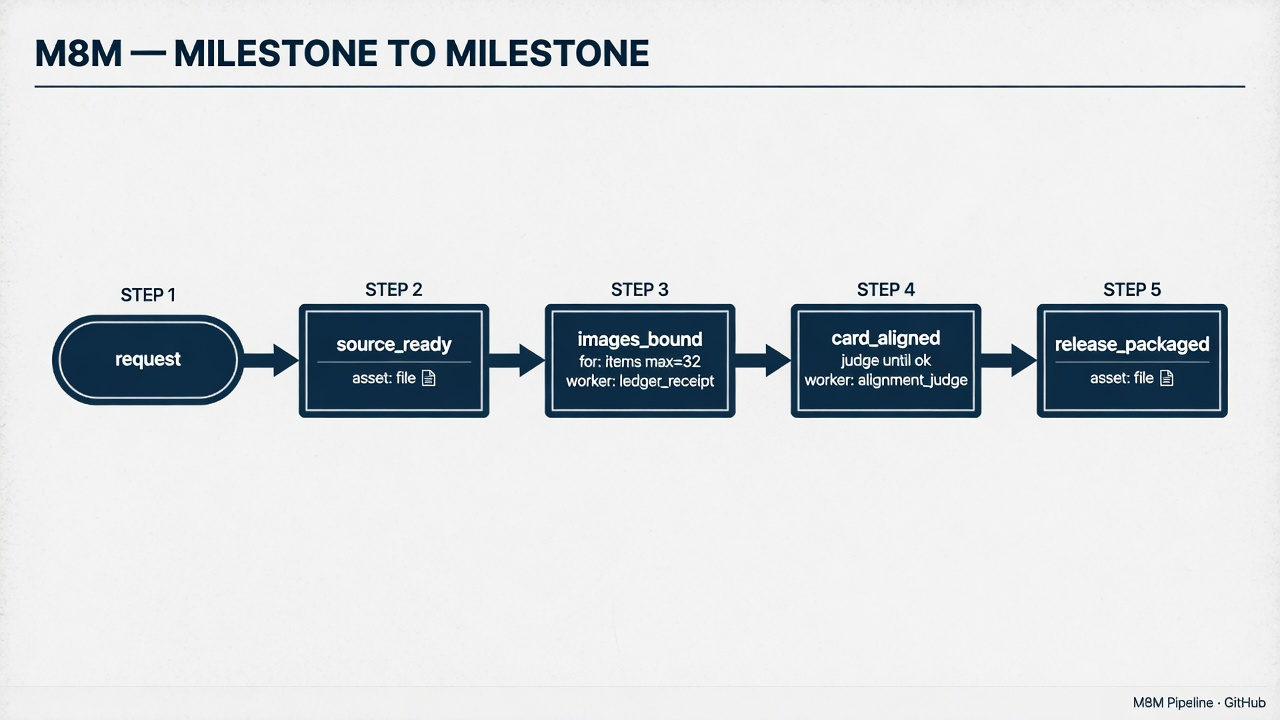
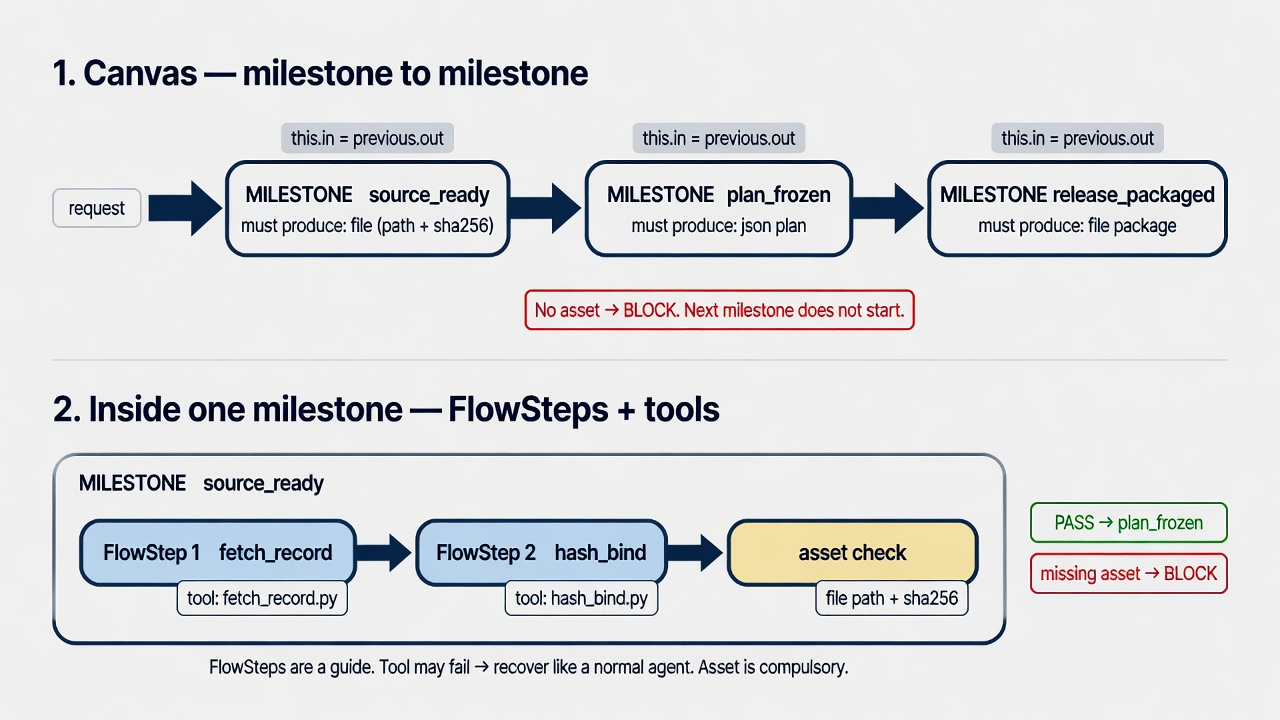
Redraw the demo: canvas is milestones; inside one milestone are FlowSteps with tools.
README and the article sample JPEG now show two panels: milestone-to-milestone
with required assets, then several FlowSteps (each with a preferred tool)
inside one milestone, then the asset check that lets the run proceed.

diff --git a/examples/article_infographic/planning/m8m-flowchart.md b/examples/article_infographic/planning/m8m-flowchart.md
@@ -1,9 +1,9 @@
 # M8M flowchart: article-infographic-maker
 
-One chart. Milestone to milestone. Each node is a required asset
-(file, image, json proof, or data). Missing it is BLOCKED.
-FlowSteps inside a node are a guide (one preferred tool each), not a compulsory path.
-for = ledger milestone until remaining=0. judge (if) = retry until worker ok.
+Two pictures. Top: milestone to milestone. Each node must hand over an
+asset or the next node does not start. Bottom: open one milestone
+(`cards_rendered`) — several FlowSteps, each with one preferred tool,
+then the image asset check.
 
 - flow_id: `article_infographic_zh_hant_v2`
 - source: `audit`
@@ -11,7 +11,7 @@ for = ledger milestone until remaining=0. judge (if) = retry until worker ok.
 
 ## Chart
 
-![article infographic M8M chart: linear milestones, for-ledger on pages, judge-until-ok on cards](m8m-flowchart.jpg)
+![article infographic: canvas of milestones, then inside cards_rendered the FlowSteps render_html_shell, footer_geometry_qa, hash_bind and the image asset check](m8m-flowchart.jpg)
 
 ## Toolbox plan
 

diff --git a/examples/article_infographic/README.md b/examples/article_infographic/README.md
@@ -8,4 +8,4 @@ Generated by:
 python scripts/audit_harness.py --target <article-infographic-skill>
 ```
 
-The published artifact is [planning/m8m-flowchart.md](planning/m8m-flowchart.md): one JPEG chart, a FlowStep table, a **for** milestone (`assets_bound` walks the pages ledger), and a **judge** milestone (`cards_rendered` until worker ok). GitHub does not use mermaid.
+The published artifact is [planning/m8m-flowchart.md](planning/m8m-flowchart.md): a JPEG with two panels (milestone canvas, then FlowSteps inside `cards_rendered`), plus the FlowStep table. GitHub does not use mermaid.
